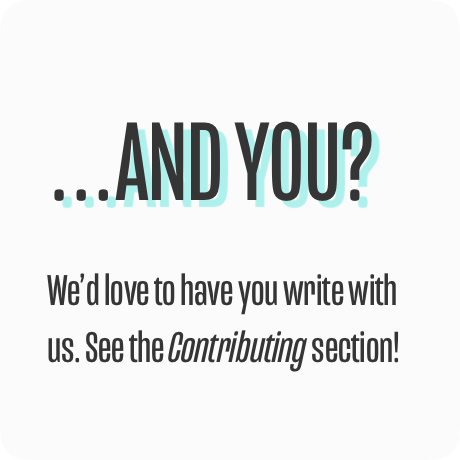
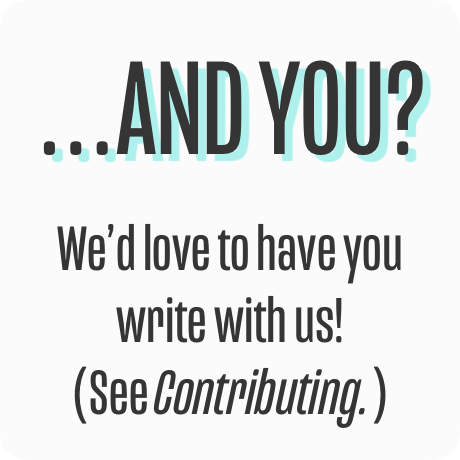
updated contributor template

Changed region(s): [[0.0913, 0.487, 0.8826, 0.9435], [0.0913, 0.1217, 0.9435, 0.4565]]

diff --git a/README.md b/README.md
@@ -49,7 +49,7 @@ Angular
 
 <!-- ALL-CONTRIBUTORS-LIST:START - Do not remove or modify this section -->
 <!-- prettier-ignore -->
-| [<img src='https://avatars2.githubusercontent.com/u/4318?v=4' width='140px;'/><br /><sub><b>Nate Murray</b></sub>](https://newline.co) | [<img src='https://avatars2.githubusercontent.com/u/12476938?v=4' width='140px;'/><br /><sub><b>Hassan Djirdeh</b></sub>](http://www.hassandjirdeh.com) | [<img src='https://avatars3.githubusercontent.com/u/36244468?v=4' width='140px;'/><br /><sub><b>MarinkoSpasojevic</b></sub>](https://github.com/MarinkoSpasojevic) | [<img src='https://avatars3.githubusercontent.com/u/4700122?v=4' width='140px;'/><br /><sub><b>Martin Jakubik</b></sub>](https://github.com/chuckeles) | [<img src='https://raw.githubusercontent.com/fullstackio/awesome-fullstack-tutorials/wip/readme/doc/img/and-you-profile-image.png' width='140px;'/><br /><sub><b>and you?</b></sub>](#) |
+| [<img src='https://avatars2.githubusercontent.com/u/4318?v=4' width='140px;'/><br /><h4 align='center'>Nate Murray</h4>](https://newline.co) | [<img src='https://avatars2.githubusercontent.com/u/12476938?v=4' width='140px;'/><br /><h4 align='center'>Hassan Djirdeh</h4>](http://www.hassandjirdeh.com) | [<img src='https://avatars3.githubusercontent.com/u/36244468?v=4' width='140px;'/><br /><h4 align='center'>MarinkoSpasojevic</h4>](https://github.com/MarinkoSpasojevic) | [<img src='https://avatars3.githubusercontent.com/u/4700122?v=4' width='140px;'/><br /><h4 align='center'>Martin Jakubik</h4>](https://github.com/chuckeles) | [<img src='https://raw.githubusercontent.com/fullstackio/awesome-fullstack-tutorials/wip/readme/doc/img/and-you-profile-image.png' width='140px;'/><br /><h4 align='center'>and you?</h4>](#) |
 | :---: | :---: | :---: | :---: | :---: |
 <!-- ALL-CONTRIBUTORS-LIST:END -->
 
